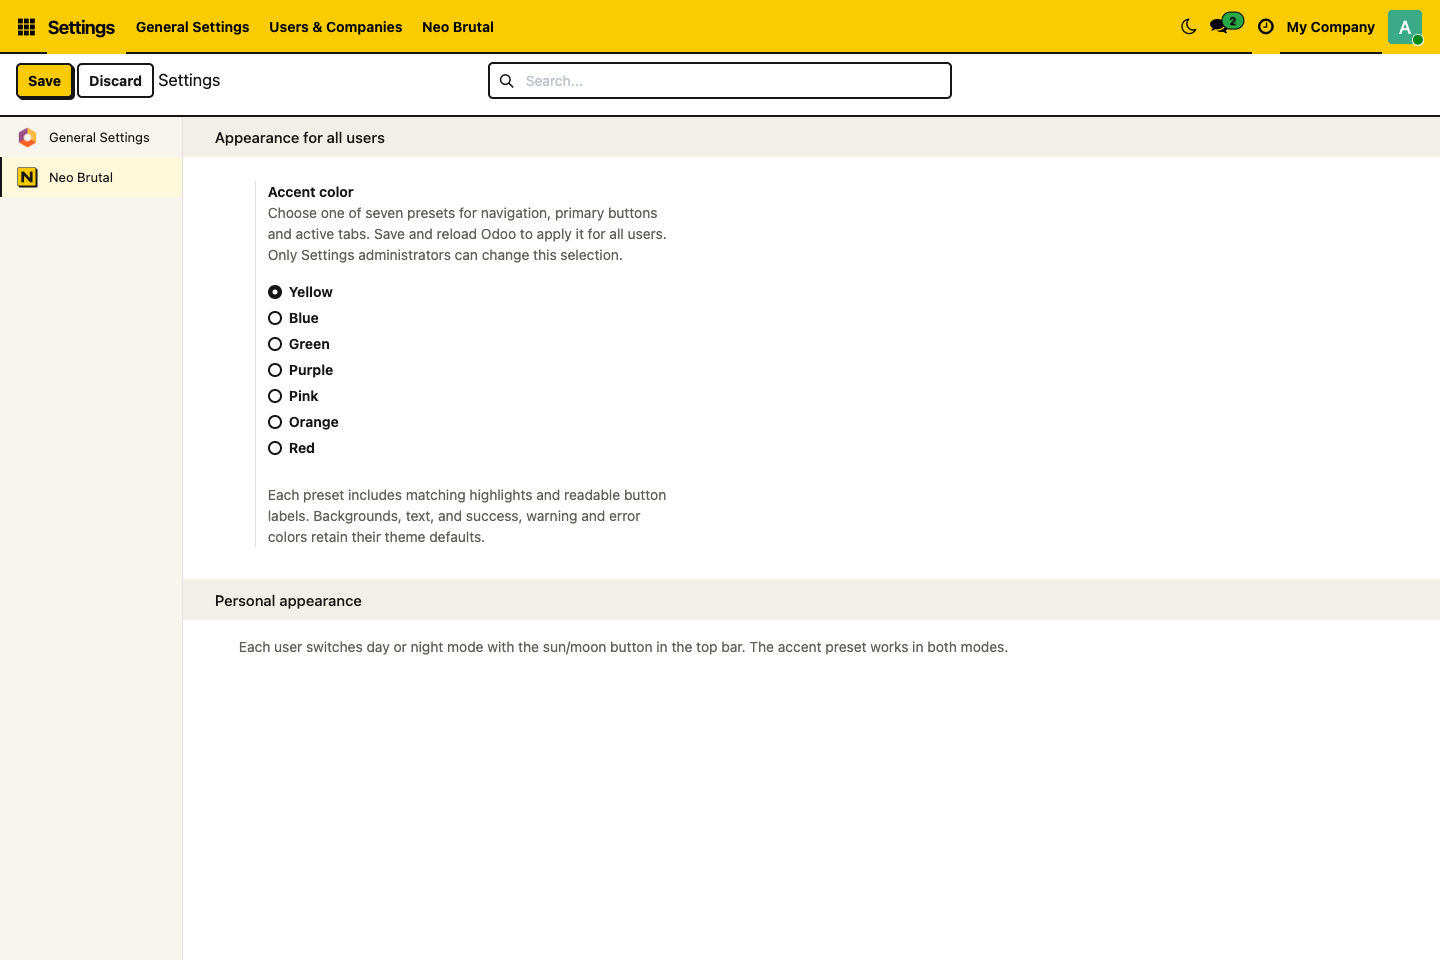
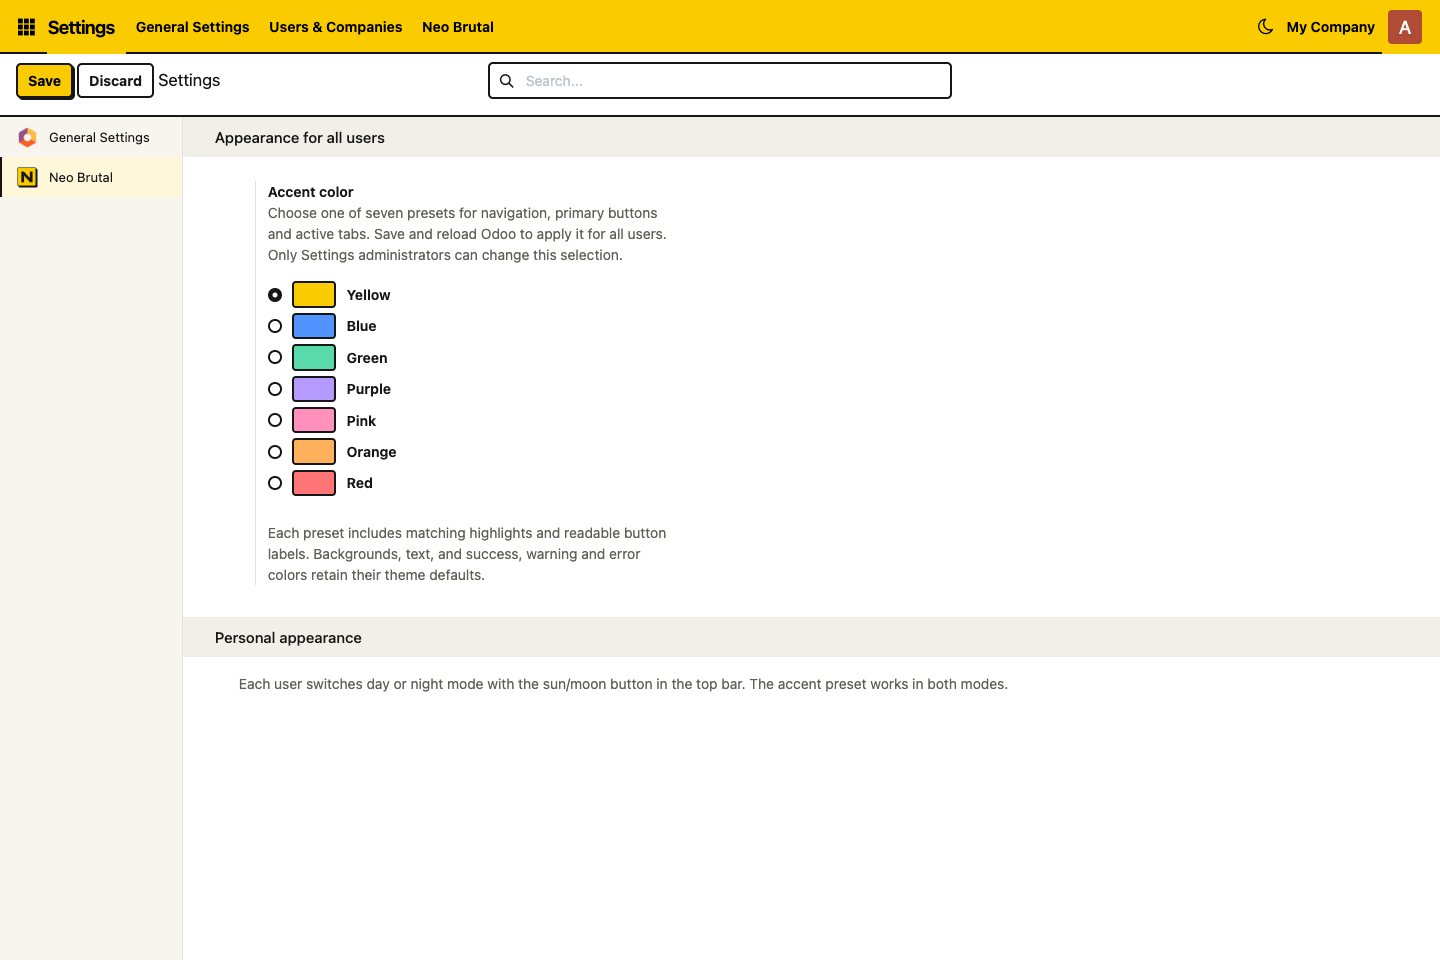
Show accent color swatches in theme settings

Changed region(s): [[0.1562, 0.2812, 0.6875, 0.7188], [0.9375, 0.0, 1.0, 0.0625], [0.8438, 0.0, 0.875, 0.0312]]

diff --git a/static/src/css/theme.css b/static/src/css/theme.css
@@ -535,6 +535,47 @@
         border-radius: var(--neo-radius);
     }
 
+    /* Show the actual preset colors alongside Odoo's native radio controls.
+       Keep this visible even when the administrator disables the theme. */
+    .o_neo_accent_presets .o_radio_item {
+        display: flex;
+        align-items: center;
+        gap: 0.65rem;
+        padding-inline-start: 0;
+        margin-bottom: 0.6rem;
+    }
+
+    .o_neo_accent_presets .o_radio_input {
+        float: none;
+        flex-shrink: 0;
+        margin: 0;
+    }
+
+    .o_neo_accent_presets .form-check-label {
+        display: inline-flex;
+        align-items: center;
+        gap: 0.65rem;
+    }
+
+    .o_neo_accent_presets .form-check-label::before {
+        content: "";
+        display: inline-block;
+        flex-shrink: 0;
+        width: 2.75rem;
+        height: 1.65rem;
+        border: 2px solid var(--neo-border, #161616);
+        border-radius: 4px;
+        background-color: var(--neo-preset-swatch);
+    }
+
+    .o_neo_accent_presets [data-value="yellow"] + label { --neo-preset-swatch: #facc00; }
+    .o_neo_accent_presets [data-value="blue"] + label { --neo-preset-swatch: #5294ff; }
+    .o_neo_accent_presets [data-value="green"] + label { --neo-preset-swatch: #5ad9aa; }
+    .o_neo_accent_presets [data-value="purple"] + label { --neo-preset-swatch: #b59aff; }
+    .o_neo_accent_presets [data-value="pink"] + label { --neo-preset-swatch: #ff91bc; }
+    .o_neo_accent_presets [data-value="orange"] + label { --neo-preset-swatch: #ffb15c; }
+    .o_neo_accent_presets [data-value="red"] + label { --neo-preset-swatch: #ff7474; }
+
     /* Appearance remains usable when the theme is switched off. */
     .o_neo_appearance .o_neo_eyebrow {
         font-family: ui-monospace, SFMono-Regular, Consolas, monospace;

diff --git a/static/description/index.html b/static/description/index.html
@@ -56,7 +56,7 @@
 
     <div class="py-4">
         <h2 style="font-weight: 800; color: #161616;">Seven accents. One shared identity.</h2>
-        <p>Choose a preset in <strong>Settings &gt; Neo Brutal</strong>. Only Settings administrators can change it. Users receive the new accent after reloading Odoo.</p>
+        <p>Preview each color swatch and choose a preset in <strong>Settings &gt; Neo Brutal</strong>. Only Settings administrators can change it. Users receive the new accent after reloading Odoo.</p>
         <div class="row mb-3">
             <div class="col-6 col-md mb-2"><div class="p-3 text-center" style="background-color: #facc00; color: #161616; border: 2px solid #161616; border-radius: 5px; font-weight: 700;">Yellow</div></div>
             <div class="col-6 col-md mb-2"><div class="p-3 text-center" style="background-color: #5294ff; color: #161616; border: 2px solid #161616; border-radius: 5px; font-weight: 700;">Blue</div></div>

diff --git a/__manifest__.py b/__manifest__.py
@@ -1,7 +1,7 @@
 {
     "name": "Neo Brutal Backend Theme",
     "summary": "Seven admin-managed accent presets and personal night mode for Odoo 19",
-    "version": "19.0.1.4.0",
+    "version": "19.0.1.4.1",
     "category": "Themes/Backend",
     "author": "alx-projects",
     "license": "LGPL-3",

diff --git a/README.md b/README.md
@@ -2,7 +2,7 @@
 
 An installable backend theme inspired by [ekmas/neobrutalism-components](https://github.com/ekmas/neobrutalism-components): strong outlines, solid offset shadows, small corner radii, and bright accents.
 
-**Version:** `19.0.1.4.0` · **Technical name:** `neobrutalism_theme` · **Dependencies:** `web`, `base_setup`.
+**Version:** `19.0.1.4.1` · **Technical name:** `neobrutalism_theme` · **Dependencies:** `web`, `base_setup`.
 
 Built for self-hosted **Odoo 19 Community**. It uses shared web-client components, but Enterprise-specific screens and third-party themes have not been verified. It can also be deployed as source through Odoo.sh. Odoo Online does not support installing this filesystem add-on. This is a backend theme, not a Website/eCommerce theme.
 
@@ -36,7 +36,7 @@ The names and paths below are examples. Use your existing Compose project and Od
    ```bash
    cd /path/to/your/compose-project
    mkdir -p addons
-   unzip /path/to/neobrutalism_theme-19.0.1.4.0.zip -d addons
+   unzip /path/to/neobrutalism_theme-19.0.1.4.1.zip -d addons
    ```
 
 2. If your deployment has no custom add-ons mount, **add** this entry to its Odoo service's existing `volumes` list. Preserve its other mounts:
@@ -109,7 +109,7 @@ Copy the `neobrutalism_theme` directory into one of the directories already list
 
 ## Administrator colors and personal night mode
 
-Only Settings administrators can select the shared accent under **Settings → Neo Brutal → Accent color**. Choose a preset, click **Save**, and reload Odoo. Other users receive it when they reload or next sign in.
+Only Settings administrators can select the shared accent under **Settings → Neo Brutal → Accent color**. Each choice shows a swatch of its actual accent color. Choose a preset, click **Save**, and reload Odoo. Other users receive it when they reload or next sign in.
 
 | Preset | Accent |
 | --- | --- |
@@ -143,7 +143,7 @@ The theme intentionally keeps Odoo's layout and widget behavior. It does not red
 
 See `VALIDATION.md` for performed checks and their limits. Marketplace screenshots in `static/description/` show actual Odoo 19 Community views with fictional demonstration records. These records and the Contacts app are not added by this theme. The marketplace description is `static/description/index.html`; user documentation is `doc/index.rst`.
 
-Source compatibility was checked against Odoo's public `19.0` branch, and version `19.0.1.4.0` was installed in a temporary local Odoo 19 Community database. This does not verify your installed third-party modules. Start with your test database, then check a list, an editable form, a many2one dropdown, a kanban board, a modal, mobile navigation and a report from your installed apps.
+Source compatibility was checked against Odoo's public `19.0` branch, and version `19.0.1.4.1` was installed in a temporary local Odoo 19 Community database. This does not verify your installed third-party modules. Start with your test database, then check a list, an editable form, a many2one dropdown, a kanban board, a modal, mobile navigation and a report from your installed apps.
 
 The included storage/initialization regression checks can be run outside Odoo with Node 18+:
 

diff --git a/VALIDATION.md b/VALIDATION.md
@@ -1,4 +1,19 @@
-# Validation — 19.0.1.4.0
+# Validation — 19.0.1.4.1
+
+## Current release: color swatches
+
+Validated on 2026-09-21 with a fresh disposable Odoo 19.0-20260908 Community database and Chrome.
+
+- Installed 19.0.1.4.1; all five existing Odoo integration tests passed, including administrator-only color changes.
+- The existing Node preference/contrast regression suite passed.
+- Verified the rendered swatch colors against the actual JavaScript preset values for all seven options in day mode, night mode, at 390px width, and with the personal theme disabled.
+- Checked clicking a swatch, accessible radio names, arrow-key selection, and persistence after Save/reload. No uncaught browser errors occurred.
+- Visually reviewed desktop, mobile, night and theme-disabled settings; updated the marketplace settings screenshot.
+
+## Previous release validation
+
+The remaining sections record the broader marketplace and lifecycle checks performed for **19.0.1.4.0**. This patch changes only settings presentation, documentation and the version number.
+
 
 ## Marketplace preparation
 

diff --git a/doc/index.rst b/doc/index.rst
@@ -44,7 +44,8 @@ Users receive the updated accent when they next reload Odoo or sign in.
 The selection applies to all companies and users in that database.
 
 The seven presets are Yellow (default), Blue, Green, Purple, Pink, Orange,
-and Red. Each supplies an accent, contrasting labels, and matching day/night
+and Red. A swatch beside each option demonstrates its actual accent color.
+Each supplies an accent, contrasting labels, and matching day/night
 highlights. Neutral surfaces, body text, and success/warning/error colors
 keep their own values. There is no arbitrary color picker or personal palette.
 

diff --git a/CHANGELOG.md b/CHANGELOG.md
@@ -1,5 +1,10 @@
 # Changelog
 
+## 19.0.1.4.1 — 2026-09-21
+
+- Added color swatches beside all seven accent choices in Settings, including day/night mode and when the personal theme is disabled.
+- Kept native radio controls, color names, keyboard navigation and administrator-only permissions.
+
 ## 19.0.1.4.0 — 2026-09-21
 
 - Prepared Odoo Apps metadata, English listing, cover, and actual Odoo Community screenshots.
